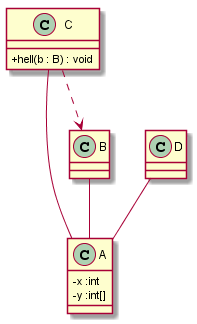
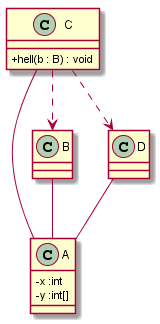
For #16 -- Parsing Dependencies

diff --git a/src/com/parser/JavaParserUML.java b/src/com/parser/JavaParserUML.java
@@ -11,6 +11,7 @@ import com.parser.beans.ConstructorStructure;
 import com.parser.beans.MethodStructure;
 import com.parser.beans.ParameterStructure;
 import com.parser.beans.RelationBean;
+import com.sun.org.apache.bcel.internal.generic.ReferenceType;
 
 import japa.parser.JavaParser;
 import japa.parser.ParseException;
@@ -23,6 +24,12 @@ import japa.parser.ast.body.MethodDeclaration;
 import japa.parser.ast.body.ModifierSet;
 import japa.parser.ast.body.Parameter;
 import japa.parser.ast.body.TypeDeclaration;
+import japa.parser.ast.expr.AssignExpr;
+import japa.parser.ast.expr.FieldAccessExpr;
+import japa.parser.ast.expr.VariableDeclarationExpr;
+import japa.parser.ast.stmt.BlockStmt;
+import japa.parser.ast.stmt.ExpressionStmt;
+import japa.parser.ast.stmt.Statement;
 
 public class JavaParserUML {
 
@@ -146,6 +153,7 @@ public class JavaParserUML {
 		MethodDeclaration methoDec = (MethodDeclaration) classAttribute;
 
 		List<ParameterStructure> methodParams = new ArrayList<ParameterStructure>();
+		List<RelationBean> methodBodyRel = new ArrayList<RelationBean>();
 
 		if (methoDec.getModifiers() == ModifierSet.PUBLIC) {
 			methodStruct.setMethodAccessModifier("public");
@@ -154,7 +162,24 @@ public class JavaParserUML {
 		}
 
 		methodStruct.setMethodName(methoDec.getName());
-
+		if(methoDec.getBody() !=null){
+			if(methoDec.getBody().getStmts()!=null && !methoDec.getBody().getStmts().isEmpty()){
+				for (Statement s : methoDec.getBody().getStmts()) {
+		            if (s instanceof ExpressionStmt) {
+		                ExpressionStmt est = (ExpressionStmt) s;
+		                if (est.getExpression() instanceof VariableDeclarationExpr) {
+		                	VariableDeclarationExpr ass = (VariableDeclarationExpr) est.getExpression();
+		                    if(!ass.getType().toString().equalsIgnoreCase("String")){
+		                    	System.out.println(ass.getType().toString());
+		                    	RelationBean dependency = generateDependecy(ass.getType().toString(), sourceClassName.getClassName());
+		                    	methodBodyRel.add(dependency);
+		                    }
+		                }
+		            }
+		        }	
+			}
+			methodStruct.setMethodBody(methodBodyRel);
+		}
 		if (methoDec.getParameters() != null && !methoDec.getParameters().isEmpty()) {
 			ParameterStructure parsedParameters = parseParameters(methoDec.getParameters(), sourceClassName);
 			methodParams.add(parsedParameters);

diff --git a/src/com/parser/GenerateUML.java b/src/com/parser/GenerateUML.java
@@ -129,6 +129,18 @@ public class GenerateUML {
 
 					}
 				}
+				if (classValues.getMethodList().get(0).getMethodBody() != null
+						&& !classValues.getMethodList().get(0).getMethodBody().isEmpty()) {
+					List<RelationBean> rels = classValues.getMethodList().get(0).getMethodBody();
+					for (RelationBean rb : rels) {
+						if (rb.getRelationType().equalsIgnoreCase("DEPENDENCY")) {
+							String parsedAssociation = classValues.getMethodList().get(0)
+									.createDependency(rb.getSourceClass(), rb.getAssociatedClass());
+							printLine.append(parsedAssociation + "\n");
+						}
+
+					}
+				}
 			}
 			
 			if (classValues.getConstructorList() != null && !classValues.getConstructorList().isEmpty()) {
@@ -145,6 +157,7 @@ public class GenerateUML {
 					}
 				}
 			}
+			
 		}
 
 		printLine.append("@enduml\n");

diff --git a/src/com/parser/beans/MethodStructure.java b/src/com/parser/beans/MethodStructure.java
@@ -7,6 +7,7 @@ public class MethodStructure {
 	private String methodAccessModifier;
 	private String methodReturnType;
 	private List<ParameterStructure>methodParameters;
+	private List<RelationBean>methodBody;
 	
 
 	public String getMethodName() {
@@ -45,6 +46,14 @@ public class MethodStructure {
 		String str = sourceClass + "..>" + associatedClass;
 		return str;
 
+	}
+
+	public List<RelationBean> getMethodBody() {
+		return methodBody;
+	}
+
+	public void setMethodBody(List<RelationBean> methodBody) {
+		this.methodBody = methodBody;
 	}
 
 }
